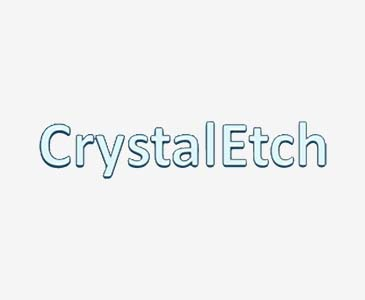
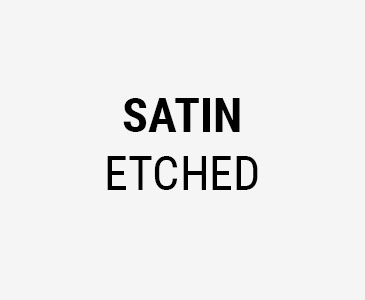
Last Round of Updates!

Changed region(s): [[0.0904, 0.3, 0.9041, 0.66]]

diff --git a/crystal-etch.html b/crystal-etch.html
@@ -10,7 +10,7 @@
   
   <meta name="author" content="Themefisher.com">
 
-  <title>CrystalEtch | G-Line Glass Your Export Glass Importer | China to the USA</title>
+  <title>Satin Etched | G-Line Glass Your Export Glass Importer | China to the USA</title>
 
   <!-- Mobile Specific Meta-->
   <meta name="viewport" content="width=device-width, initial-scale=1">
@@ -84,7 +84,7 @@
       </div>
       <div class="col-md-4">
         <div class="project-details mt-50">
-          <h4>Crystal Etch</h4>
+          <h4>Satin Etched</h4>
           <p>Traditional satin Etched has flaws: Cerium Oxide sticks to the surface in fabricating with Traditional satin etched, caused by open pours surface that does show fingerprints and moisture/stains. Lots of after sale labor costs in repeated cleanings as finger prints really do show on traditional satin etch. Combat this with the new smoother polished surface called CrystalEtch Glass.<br><br><a href="https://drive.google.com/file/d/1tp6brwxIB0h-LBVEeNPTxW5mqqUEYuGt/view?usp=sharing">Click to View Crystal Etch Brochure</a></p>
         </div>
       </div>
@@ -96,7 +96,12 @@
           <br><br>
           <b>CrystalEtch has a slightly higher light transmittance</b>. Traditional satin etch will not match the new brighter cleaner environment created by CrystalEtch.
           <br><br>
-          <b>CrystalEtch finish can be produced on any type of glass</b>. We are offering it on clear float and Low-Iron glass today. Available on all thickness 3 to 19 mill in standard sizes.<br><br><center><img src="images/portfolio/crystaletch-2.jpg"><br><a href="https://drive.google.com/file/d/1r6R-2nsU9WXl_16gSjzBfvn1oU92Rvd8/view?usp=sharing">Click to Enlarge Image</a></center></p>
+          <b>CrystalEtch finish can be produced on any type of glass</b>. We are offering it on clear float and Low-Iron glass today. Available on all thickness 3 to 19 mill in standard sizes.
+          <br><br>
+          Satin Etched is available on Clear float and Low-Iron glass from 3.2 mill to 19 mill.
+          <br><br>
+          Be sure to check out CrystalEtch glass as well. The next generation in Satin Etched Glass.
+          <br><br><center><img src="images/portfolio/crystaletch-2.jpg"><br><a href="https://drive.google.com/file/d/1r6R-2nsU9WXl_16gSjzBfvn1oU92Rvd8/view?usp=sharing">Click to Enlarge Image</a></center></p>
         </div>
       </div>
       <div class="col-md-5">

diff --git a/products.html b/products.html
@@ -115,11 +115,11 @@
               </li>
               <li class="mix satinetched">
                 <a href="crystal-etch.html">
-                  <img src="images/portfolio/crystaletch_1.jpg" alt="">
+                  <img src="images/portfolio/crystaletch.jpg" alt="">
                   <div class="item-overly">
                     <div class="position-center">
-                      <h4>Satin Etch</h4>
-                      <p>The next generation of Satin Etched glass - CrystalEtch. Click to learn more.</p>
+                      <h4>Satin Etched</h4>
+                      <p>Satin Etched glass has truly become a popular designers product, by providing light transmission with various levels of obscurity. G-Line represents the premier facility in Asia to provide an etching surface desired with consistently high quality.<br>Click to learn more.</p>
                     </div>
                   </div>
                 </a>

diff --git a/mirror.html b/mirror.html
@@ -85,7 +85,7 @@
       <div class="col-md-4">
         <div class="project-details mt-50">
           <h4>Mirror</h4>
-          <p>We have been shipping Silvered mirror, both Traditional and Copper Free with Fenzie paint with great success for years. New mirror line about to come up to meet demand. This line is dedicated to producing 120” lengths, in much higher volume.</p>
+          <p>We have been shipping Silvered mirror, both Traditional and Copper Free with Fenzi paint with great success for years. New mirror line about to come up to meet demand. This line is dedicated to producing 120” lengths, in much higher volume.</p>
         </div>
       </div>
     </div>

diff --git a/low-e.html b/low-e.html
@@ -79,7 +79,7 @@
     <div class="row">
       <div class="col-md-8">
         <div class="portfolio-single-slider owl-carousel owl-theme">
-          <div><img src="images/portfolio/imagecomingsoon.jpg"></div>
+          <div><img src="images/portfolio/low-e_1.jpg"></div>
         </div>
       </div>
       <div class="col-md-4">
